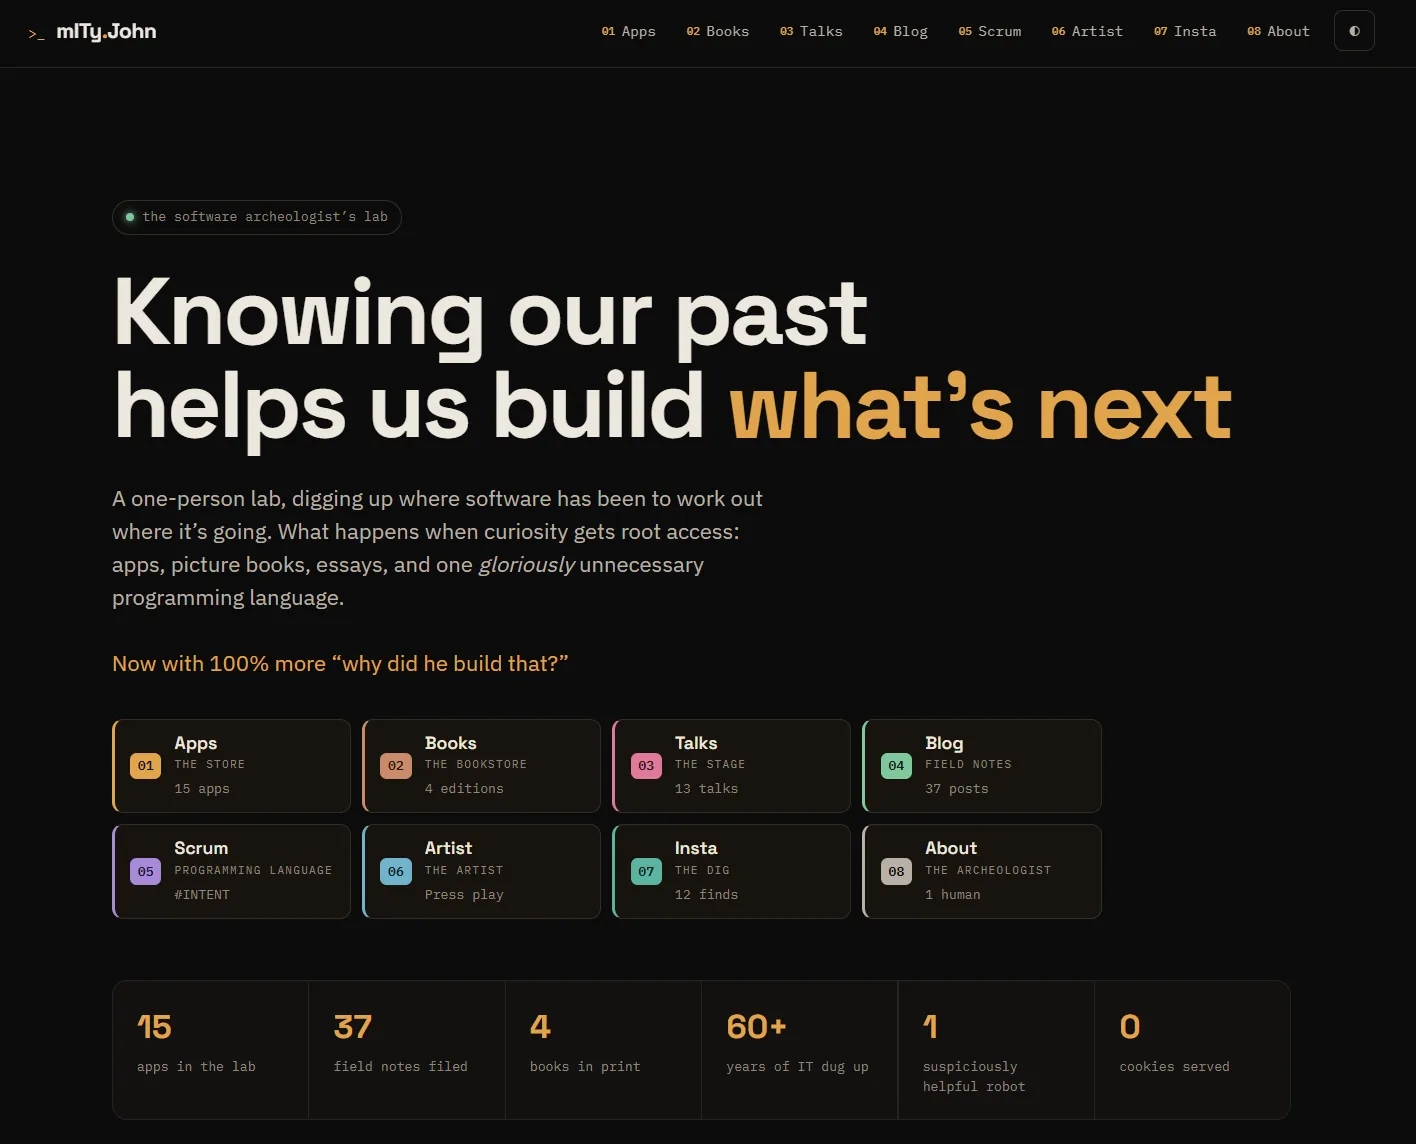
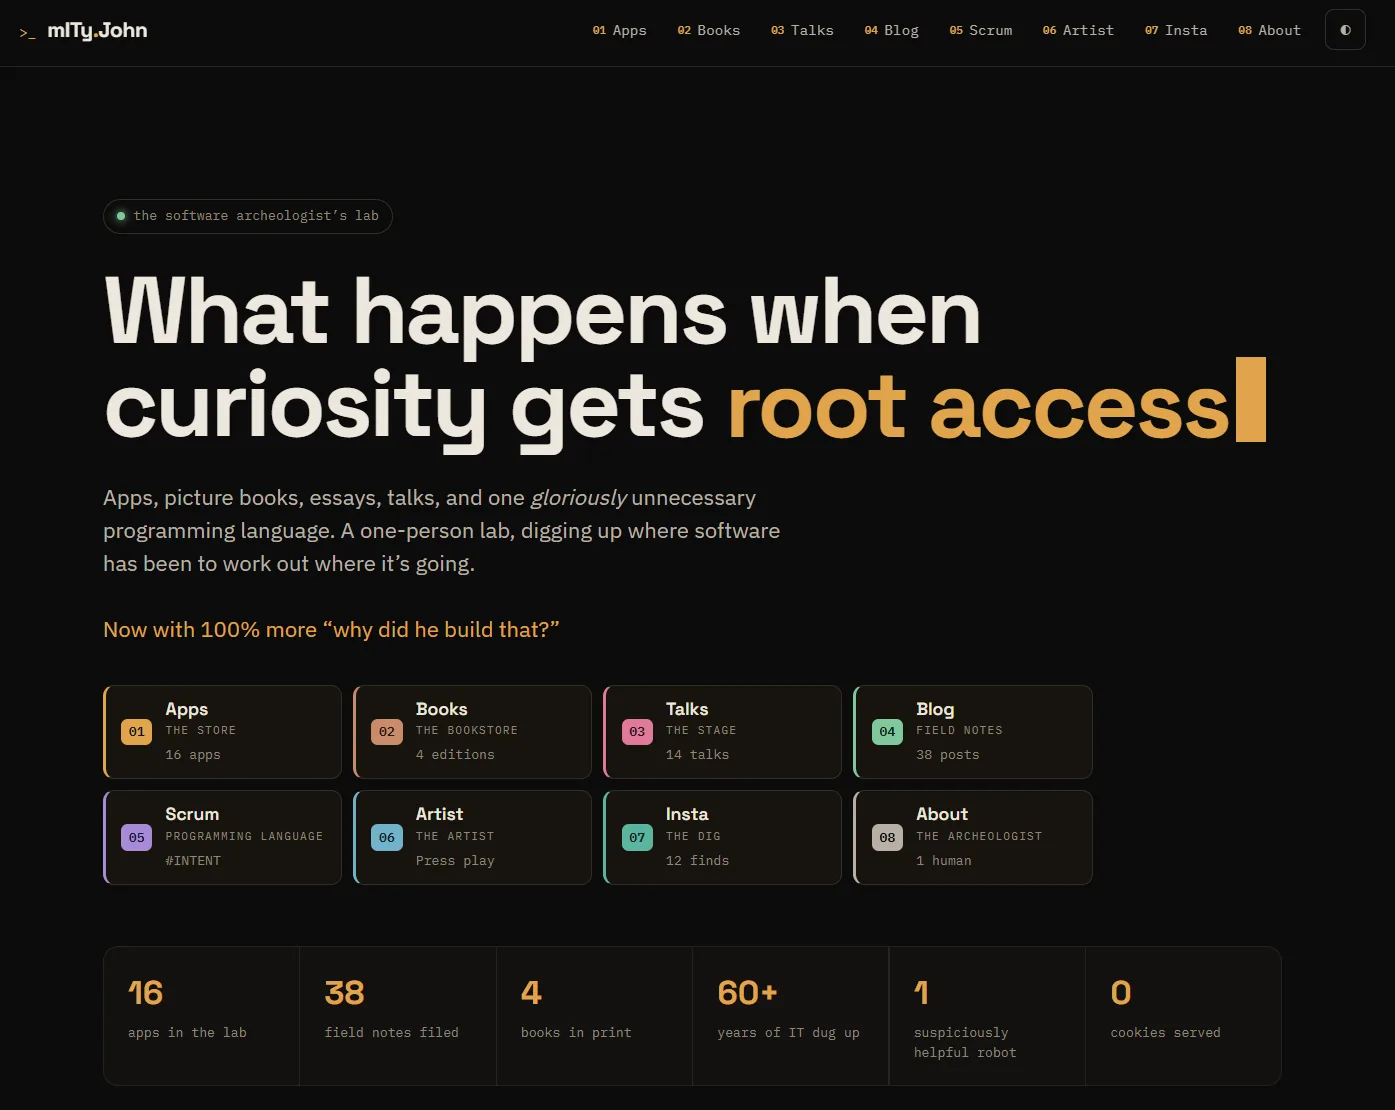
Post: refresh the homepage screenshot for the new headline
The image showed "Knowing our past helps us build what's next", which the
site no longer says. New capture, alt text updated to match, dimensions
corrected from 1416x1144 to 1395x1110.

diff --git a/src/content/blog/write-the-brief-not-the-prompts.md b/src/content/blog/write-the-brief-not-the-prompts.md
@@ -200,8 +200,8 @@ you used to think.
 
 <figure>
   <img src="/blog/write-the-brief-not-the-prompts/home.webp"
-       alt="The homepage of the rebuilt mityjohn.com, with the headline 'Knowing our past helps us build what's next' above eight numbered level cards."
-       width="1416" height="1144" loading="lazy" />
+       alt="The homepage of the rebuilt mityjohn.com, with the headline 'What happens when curiosity gets root access' above eight numbered level cards and a row of counters."
+       width="1395" height="1110" loading="lazy" />
   <figcaption>Eight numbered levels, because the brief specified structure and said nothing about tone.</figcaption>
 </figure>
 